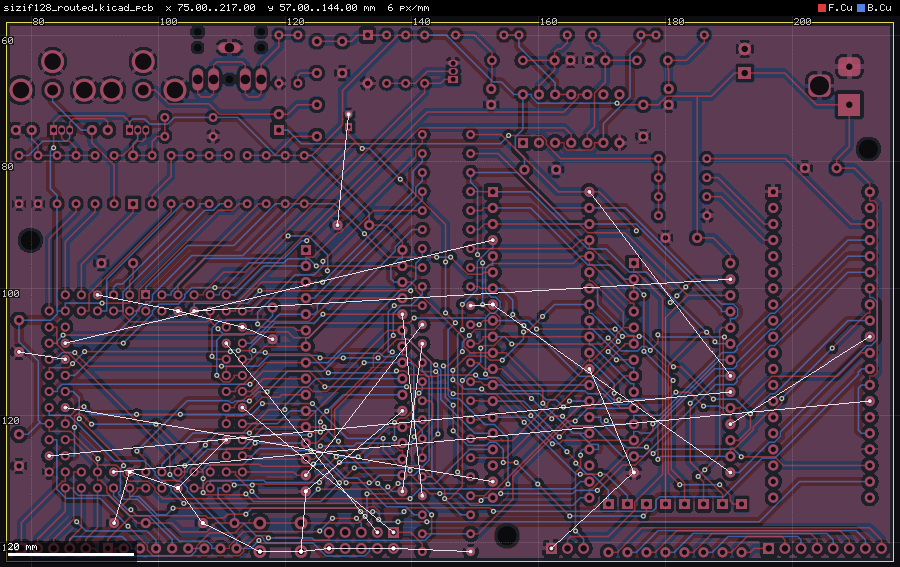
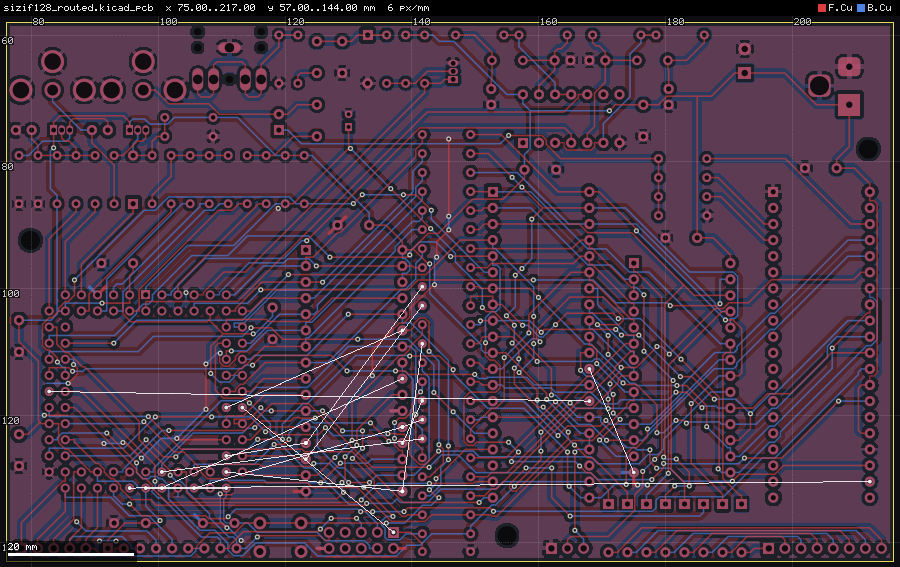
README/benchmark: results of the current main (2/8 fully routed, 152 -> 77 unconnected)
Claude-Session: https://claude.ai/code/session_01WKvtANszWR1kzrh1K9DYxC

diff --git a/README.md b/README.md
@@ -602,21 +602,21 @@ the output files are unchanged, and without the flag no event is written.
 benchmarks with, end to end and without manual steps: download (pinned commit, sha256), keep the
 board's own net classes (track widths, clearances, vias) and setup minimums, strip all tracks and
 vias, then one `copperpath autoroute --time 120` (planes, fan-out, signals, pours) and a sign-off
-with `kicad-cli pcb drc --refill-zones`. Result of the current main (4 cores, 2026-10-25):
+with `kicad-cli pcb drc --refill-zones`. Result of the current main (4 cores, 2026-10-26):
 
 | board | layers | nets | unconnected before → after | new DRC (KiCad) | route s | vias (human) | length mm (human) |
 |---|---|---|---|---|---|---|---|
-| fan_controller | 2 | 31 | 77 → 1 | starved_thermal 1, track_dangling 1 | 4.2 | 34 (23) | 590 (534) |
-| LVDS2TMDS | 2 | 29 | 39 → 0 | 0 | 0.7 | 10 (13) | 272 (274) |
-| sizif128 | 2 | 28 | 272 → 32 | starved_thermal 15, via_dangling 2 | 146 | 221 (203) | 6183 (8329) |
-| rxadc_14 | 4 | 47 | 78 → 11 | solder_mask_bridge 3 | 9.6 | 78 (31) | 476 (447) |
-| icehat | 4 | 59 | 104 → 10 | track_dangling 1 | 51 | 61 (41) | 937 (1251) |
-| rf_siggen | 4 | 57 | 153 → 16 | track_dangling 1 | 18 | 175 (369) | 998 (1108) |
-| a123_bcm | 4 | 139 | n/a → 4 ¹ | starved_thermal 1 ¹ | 6.3 | 64 (88) | 809 (1065) |
-| prog_rig | 4 | 287 | 499 → 83 | track_dangling 1 | 170 | 488 (332) | 7623 (12796) |
+| fan_controller | 2 | 31 | 77 → **0** | 0 | 4.5 | 34 (23) | 593 (534) |
+| LVDS2TMDS | 2 | 29 | 39 → **0** | 0 | 0.7 | 10 (13) | 274 (274) |
+| sizif128 | 2 | 28 | 272 → 16 | starved_thermal 4 | 115 | 243 (203) | 6518 (8329) |
+| rxadc_14 | 4 | 47 | 78 → 5 | solder_mask_bridge 3 | 9.5 | 78 (31) | 493 (447) |
+| icehat | 4 | 59 | 104 → 10 | 0 | 52 | 61 (41) | 970 (1251) |
+| rf_siggen | 4 | 57 | 153 → 16 | 0 | 15 | 175 (369) | 998 (1108) |
+| a123_bcm | 4 | 139 | 92 → 1 ¹ | 0 ¹ | 6.4 | 66 (88) | 829 (1065) |
+| prog_rig | 4 | 287 | 499 → 29 | track_dangling 1 | 157 | 539 (332) | 9256 (12796) |
 
-¹ kicad-cli's zone refill on a123_bcm did not finish within 600 s; the numbers are from
-`copperpath drc --refill-zones` (0.55 s).
+¹ kicad-cli's zone refill on a123_bcm does not finish within 600 s; the benchmark then checks
+both boards with `copperpath drc --refill-zones` (about 1 s).
 
 The history per release lives in [docs/benchmark.md](docs/benchmark.md); the `Benchmark`
 workflow adds a row for every release tag. Routed boards (`render --refill-zones --fills
@@ -629,7 +629,7 @@ workflow adds a row for every release tag. Routed boards (`render --refill-zones
 | ![fan_controller](docs/img/bench_fan_controller.png) | ![a123_bcm](docs/img/bench_a123_bcm.png) |
 
 DRC time on the routed boards with the saved fills, best of three: the native `drc` gives the
-same violations as kicad-cli in 7-74 ms instead of 0.65-1.4 s
+same violations as kicad-cli in 7-105 ms instead of 0.65-1.8 s
 (`scripts/readme_figures.py` regenerates figures and chart from a benchmark run).
 
 ![DRC time per board, kicad-cli against copperpath drc](docs/img/drc_time.svg)

diff --git a/docs/benchmark.md b/docs/benchmark.md
@@ -20,3 +20,4 @@ are sums over all boards.
 | release | date | commit | command | fully routed | unconnected | new DRC | vias | route time s | machine |
 |---|---|---|---|---|---|---|---|---|---|
 | main fe329e3 | 2026-10-25 | `fe329e3e` | autoroute | 1/8 | 152 | 25 | 1131 | 406 | 4 cores Intel(R) Xeon(R) Processor @ 2.10GHz |
+| main aa40784 | 2026-10-26 | `aa407842` | autoroute | 2/8 | 77 | 8 | 1206 | 360 | 4 cores Intel(R) Xeon(R) Processor @ 2.10GHz |
